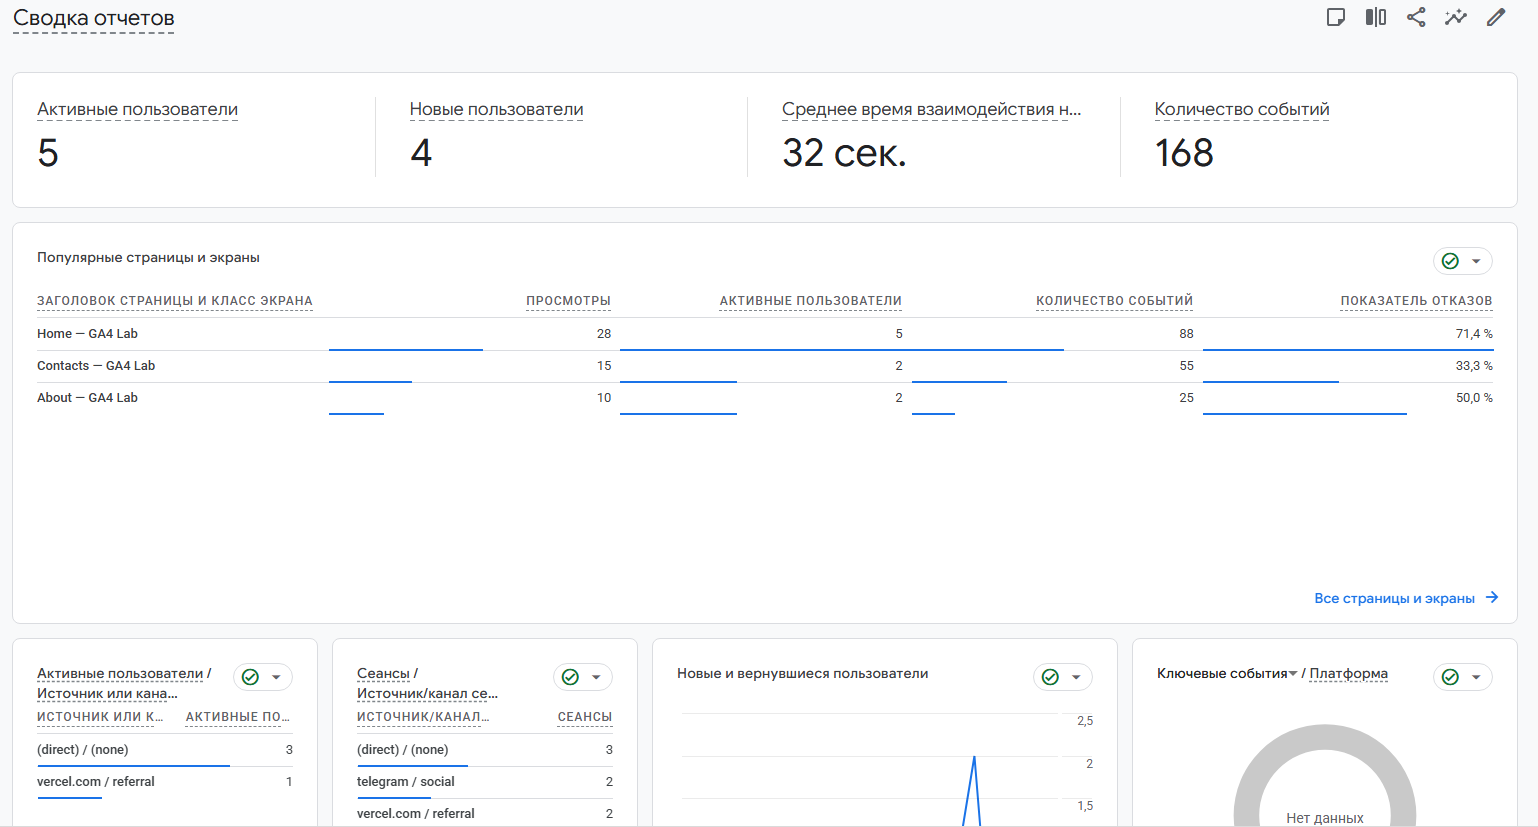
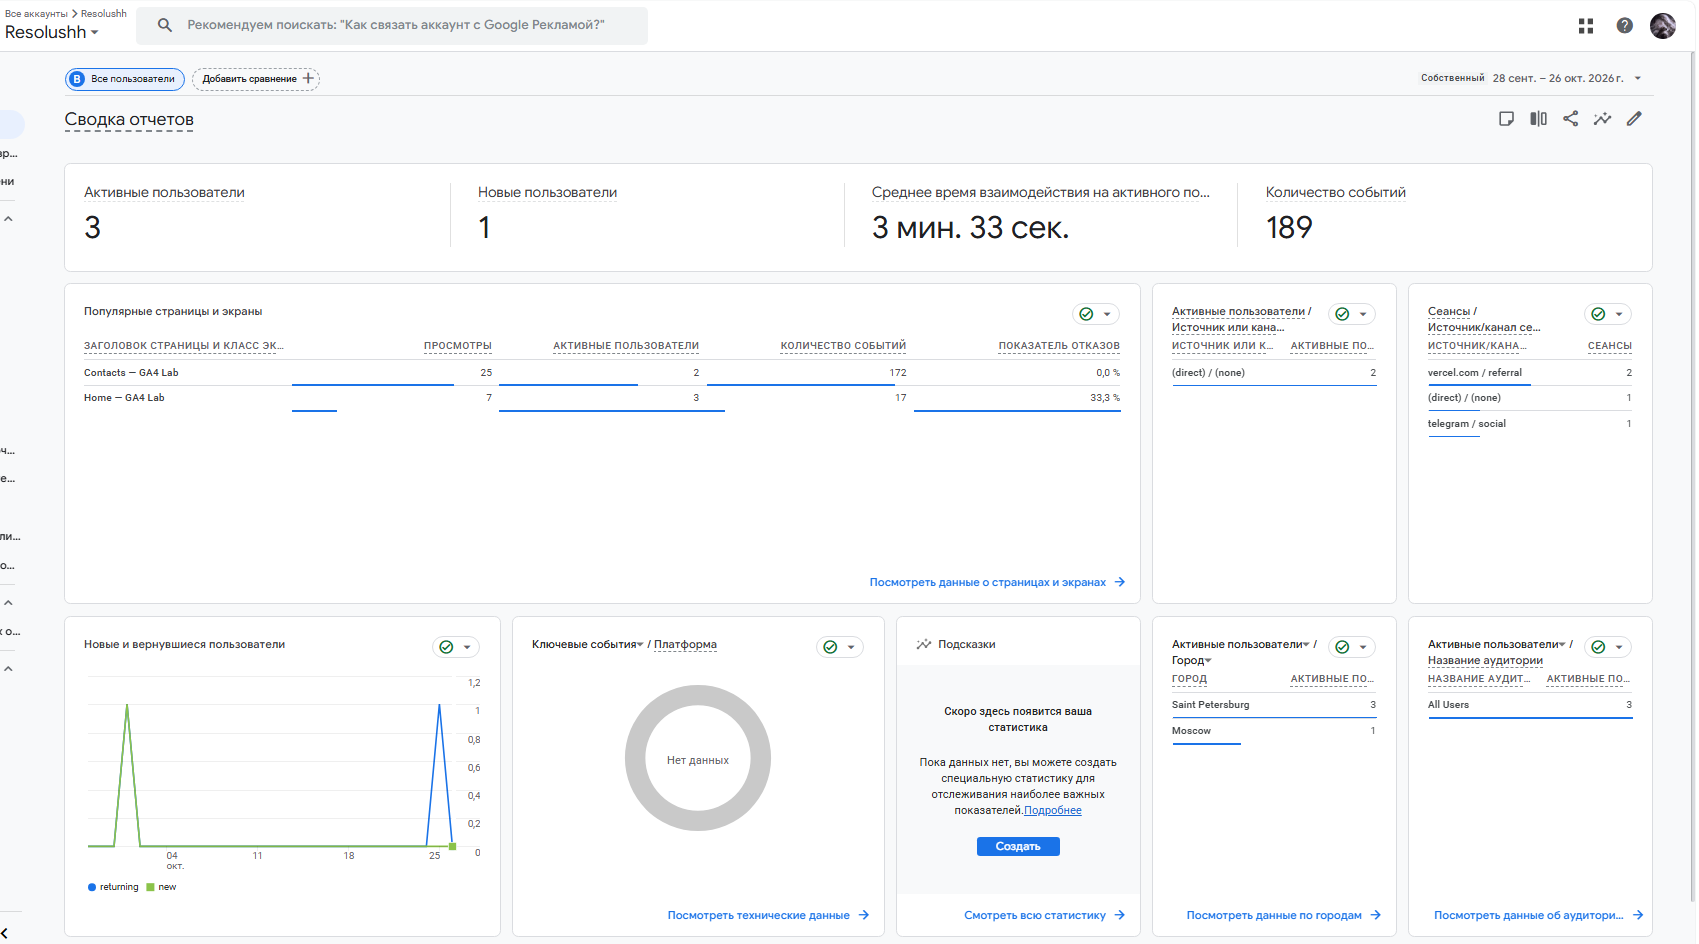
hw-03: подтвердить тег, источник Telegram и статистику GA4

diff --git a/lesson_03/homework_03.md b/lesson_03/homework_03.md
@@ -21,7 +21,7 @@
 | Публичный адрес сайта | https://test-site-ashy-iota.vercel.app/ |
 | Статус публикации | READY |
 | Analytics Account | Resolushh |
-| Property | GA4 Lab |
+| Property | Resolushh |
 | Stream name | GA4 Lab |
 | Website URL в потоке | https://test-site-ashy-iota.vercel.app/ |
 | Measurement ID (`G-…`) | G-PPFEV7N322 |
@@ -34,9 +34,9 @@
 
 **Результат проверки из инструкции тега:**
 
-> На кадре показан тег Test Website с идентификатором G-PPFEV7N322: качество «Отличное», тег передаёт данные, ошибок не найдено. Отдельное сообщение «На вашем сайте обнаружен тег Google» не показано.
+> Проверка сайта в инструкции ручной установки завершилась зелёной отметкой. На кадре видны адрес https://test-site-ashy-iota.vercel.app/ и Measurement ID G-PPFEV7N322.
 
-![Сообщение об обнаружении тега Google](screens/01-tag-detected.png)
+![Успешная проверка Google Tag на сайте](screens/01-tag-detected.png)
 
 ![Код тега на странице, виден Measurement ID](screens/02-tag-in-code.png)
 
@@ -47,7 +47,7 @@
 | Дата и время проверки | 25.09.2026 21:30 |
 | Какие страницы открывали | Главная страница (`/`) |
 | Какие события появились в Realtime | `page_view` (3), `scroll` (3), `nav_click` (2), `first_visit` (1), `session_start` (1), `user_engagement` (1) |
-| Число активных пользователей в момент проверки | В первоначальной записи — 1; на приложенном фрагменте карточка пользователей не видна |
+| Число активных пользователей в момент проверки | На скриншоте число активных пользователей не показано |
 
 ![Realtime с событием page_view](screens/03-realtime.png)
 
@@ -56,44 +56,45 @@
 **Ссылка целиком:**
 
 ```
-https://test-site-ashy-iota.vercel.app/?utm_source=vk&utm_medium=social&utm_campaign=hw3_test
+https://test-site-ashy-iota.vercel.app/?utm_source=telegram&utm_medium=social&utm_campaign=hw3_test
 ```
 
 | Поле | Значение |
 |---|---|
-| Где в GA4 виден источник | Кадр 04 показывает группы каналов первого взаимодействия. Для сверки нужен отчёт с измерением «Источник / канал сеанса» |
-| Какое значение источника показал GA4 | На кадре 04 видны Direct, Unassigned, Referral; vk не показан. На кадре 05 есть telegram / social |
-| Совпадает с `utm_source` из ссылки | Не подтверждено: на кадрах нет источника vk |
+| Где в GA4 виден источник | Отчёт «Привлечение трафика», измерение «Источник/канал сеанса» |
+| Какое значение источника показал GA4 | telegram / social; в этой строке показан 1 сеанс |
+| Совпадает с `utm_source` из ссылки | Источник telegram и канал social совпадают с метками ссылки; кампания на этом кадре не показана |
 
 ![Источник перехода в GA4](screens/04-source.png)
 
-Источник и кампания из UTM в отчёте Realtime не показываются: эти измерения
-вычисляются при обработке данных. Если в Realtime источника нет, смотрите
-отчёт по источникам трафика в разделе «Отчёты».
+На кадре видны ресурс Resolushh, период 28.09.2026–26.10.2026
+и источник telegram / social. Значение кампании в этом разрезе не показано.
 
 ## 5. Статистика на странице «Отчёты»
 
 | Показатель | Значение | Период |
 |---|---|---|
-| Пользователи | 5 активных | По исходной записи — последние 28 дней; селектор дат обрезан |
-| Сеансы | Общее число не показано; видны 3 direct, 2 telegram, 2 vercel.com | Тот же отчёт |
-| События | 168 | Тот же отчёт |
-| Самое частое событие | В приложенной сводке не показано | Тот же отчёт |
+| Пользователи | 3 активных | 28.09.2026–26.10.2026 |
+| Сеансы | 4, итоговая строка отчёта «Привлечение трафика» | 28.09.2026–26.10.2026 |
+| События | 189 | 28.09.2026–26.10.2026 |
+| Самое частое событие | page_view — 32 срабатывания | 28.09.2026–26.10.2026 |
 
 ![Страница «Отчёты» со статистикой](screens/05-reports.png)
 
+![Итоговое число сеансов за тот же период](screens/06-sessions.png)
+
+![Отчёт по событиям: page_view — 32 срабатывания](screens/07-events.png)
+
 **Что видно по этим числам:**
 
-> В сводке показаны 5 активных пользователей и 168 событий. Из трёх страниц больше просмотров у Home — 28, затем Contacts — 15 и About — 10. Данные подтверждают поступление статистики, но сами по себе не исключают дублирование тега и не характеризуют обычную аудиторию: сайт тестировался.
+> За период 28 сентября — 26 октября в отчётах 3 активных пользователя, 4 сеанса и 189 событий. У Contacts — 25 просмотров, у Home — 7. Среднее время взаимодействия на активного пользователя — 3 мин. 33 сек. Самое частое событие — page_view, 32 срабатывания. Это результаты тестовых посещений.
 
 ## 6. Что не получилось
-
-> При первоначальной проверке обычный переход определялся как (direct) / (none), а метки удалось увидеть в режиме отладки. Защита Edge рассматривалась как возможная причина, но сравнительная проверка не зафиксирована. Кадр 04 не подтверждает vk: нужно повторить переход по чистому URL и показать источник сеанса, период и общее число сеансов. Новые проверки и скриншоты пока не выполнялись.
 
 ## 7. Использование ИИ
 
 | Вопрос | Ответ |
 |---|---|
-| Что сделано самостоятельно | Интеграция кода тега Google в `<head>` сайта, деплой изменений, тестирование переходов и снятие всех требуемых скриншотов из интерфейса GA4. |
-| Что спрошено у модели | Перенос данных проекта, оформление выводов и сверка ответов с имеющимися кадрами. |
-| Что после этого изменено | Исправлена ссылка на изображение; уточнены показатели и ограничения кадров. Убраны неподтверждённые утверждения об источнике vk, лидерстве page_view и доказанной причине сбоев. Исходная структура бланка сохранена. |
+| Что сделано самостоятельно | Подключение тега к сайту, публикация сайта и сбор имеющихся скриншотов GA4. |
+| Что спрошено у модели | Помощь с правками, проверкой работы и оформлением отчёта. |
+| Что после этого изменено | Уточнил формулировки, исправил неточности и сверил текст с имеющимися материалами. |
